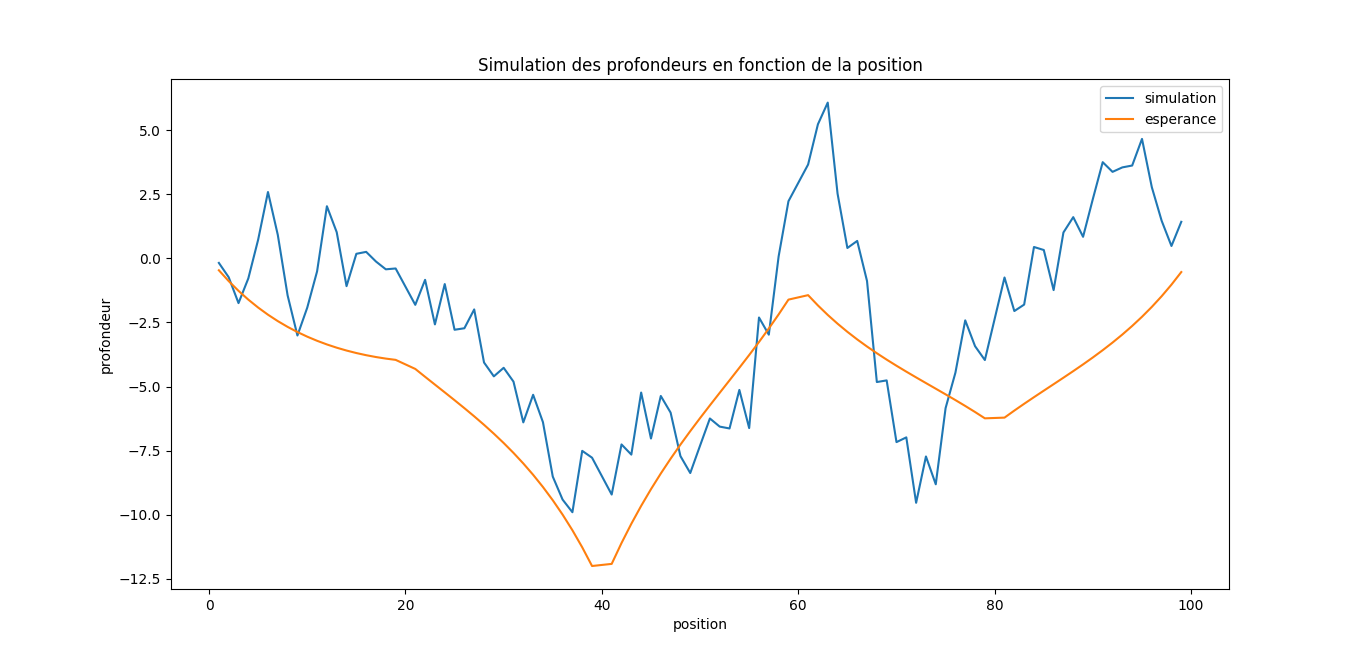
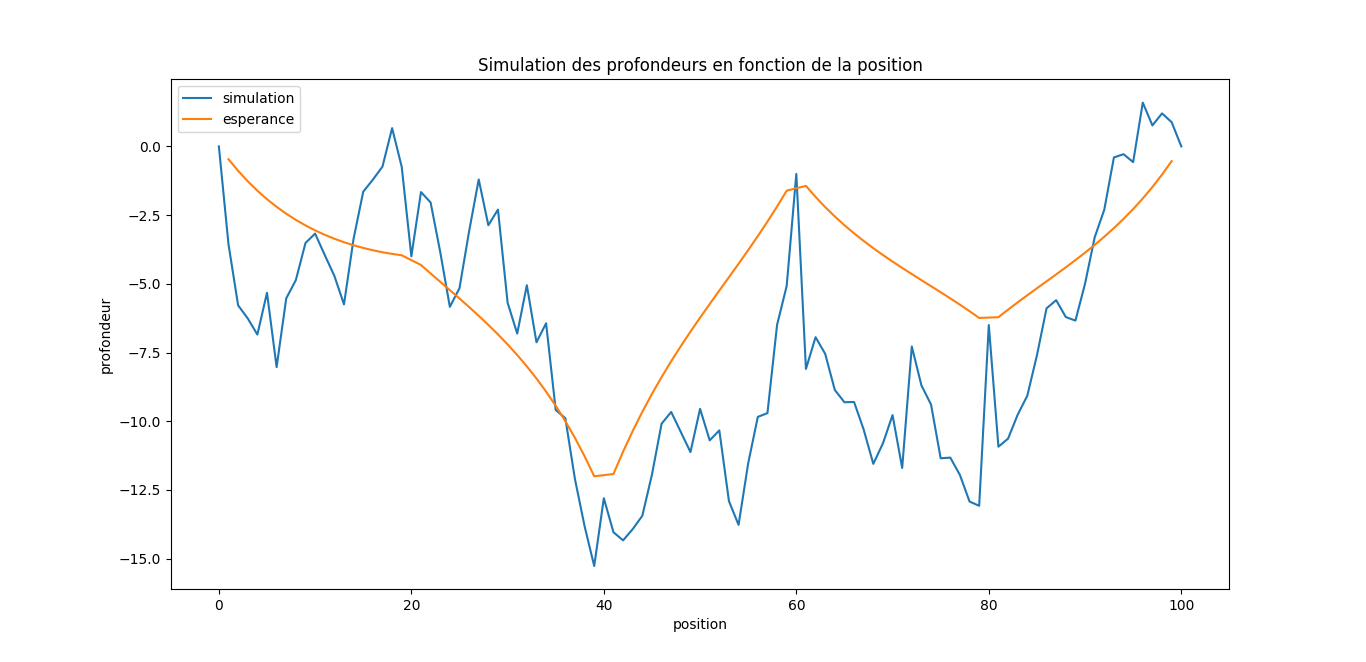
histogramme

diff --git a/questions.py b/questions.py
@@ -126,7 +126,13 @@ R = scipy.linalg.sqrtm(M3)
 def simulation_Z(N = 95):
 	Y = np.random.normal(0,1,N)
 	Z = esperance + np.dot(R,Y)
-	return Z
+	Z_complete = []
+	for i in range(101):
+		if i%20 == 0:
+			Z_complete.append(depth[i//20])
+		else:
+			Z_complete.append(Z[i-i//20-1])
+	return Z_complete
 
 def simulation_L(N = 95):
 	Z = simulation_Z(N)
@@ -143,9 +149,63 @@ def print_simulation(N = 95):
 	plt.title("Simulation des profondeurs en fonction de la position")
 	plt.xlabel("position")
 	plt.ylabel("profondeur")
-	plt.plot(unknown_indexes,simulation_Z(N), label = "simulation")
+	plt.plot(discretization_indexes,simulation_Z(N), label = "simulation")
 	plt.plot(unknown_indexes,esperance,label = "esperance")
 	plt.legend(loc = 0)
 	plt.show()
 
-print_simulation()
+#print_simulation()
+
+def estimation(number, N = 95):
+	simulations = np.array([simulation_L(N) for _ in range(95)])
+	return np.mean(simulations)
+
+esperance_complete = []
+for i in range(101):
+		if i%20 == 0:
+			esperance_complete.append(depth[i//20])
+		else:
+			esperance_complete.append(esperance[i-i//20-1])
+
+longueur_esperee = 0
+temp = esperance_complete[0]
+for e in esperance_complete[1:]:
+		longueur_esperee += ma.sqrt(5**2 + (e-temp)**2)
+		temp = 1*e
+
+longueur_simulee = estimation(100)
+
+#print(longueur_simulee,longueur_esperee)
+
+def moyenne_glissante(number, N = 95):
+	simulations = []
+	moyennes = []
+	for k in range(1,number+1):
+		simulations.append(simulation_L(N))
+		moyennes.append(sum(simulations)/k)
+	return moyennes
+
+def print_moyenne_glissante(number, N = 95):
+	numbers = [i for i in range(1,number+1)]
+	moyennes = moyenne_glissante(number,N)
+	plt.figure()
+	plt.title("Evolution de la moyenne des longueurs de cable simulee au cours des simulations")
+	plt.xlabel("numero de la simulation")
+	plt.ylabel("moyenne depuis le debut des simulation")
+	plt.plot(numbers,moyennes)
+	plt.plot(numbers,[moyennes[-1] for _ in range(number)],label = "valeur finale")
+	plt.legend(loc=0)
+	plt.show()
+
+# print_moyenne_glissante(100)
+
+def hist_moyenne(number, N = 95):
+	moyennes = moyenne_glissante(number,N)
+	plt.figure()
+	plt.title("Histogramme des longueurs de cable simulee au cours des simulations")
+	plt.xlabel("longueur")
+	plt.ylabel("nombre de simulations")
+	plt.hist(moyennes, bins = np.arange(525,535,.3))
+	plt.show()	
+
+hist_moyenne(100)
